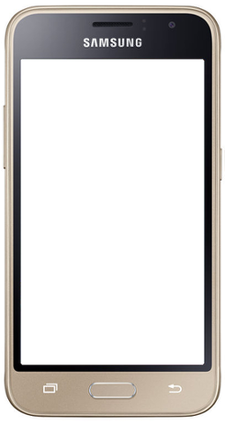
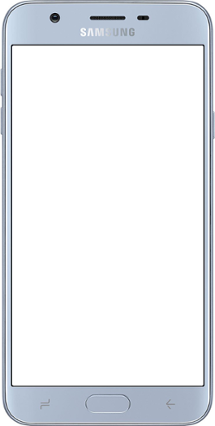
v0.8.2

diff --git a/frontend/web/css/site.css b/frontend/web/css/site.css
@@ -107,8 +107,8 @@ a.label-tag:hover, a.label-tag-na:hover {color:#555; border-color:#555;}
 .v-code .chr td {width: 3px; height: 3px; padding:0px; border: 1px solid #F2F2F2;}
 
 /*Adv*/
-.a1 {height: 120px; margin:15px 0;}
-.a2 { margin:15px 0 30px;}
+.a1 {margin:15px 0;}
+.a2 {margin:15px 0 30px;}
 
 /* ---- Slick ---- */
 /* Slider */

diff --git a/frontend/web/css/pda.css b/frontend/web/css/pda.css
@@ -104,7 +104,7 @@ a.label-tag:hover, a.label-tag-na:hover {color:#555; border-color:#555;}
 .v-code .chr td {width: 3px; height: 3px; padding:0px; border: 1px solid #F2F2F2;}
 
 /*Adv*/
-.a1m {height: 280px; margin:15px 0;}
+.a1m {margin:15px 0;}
 .a2m {margin:15px 0 25px;}
 
 /* ---- Slick ---- */

diff --git a/backend/components/ImageUploadAction.php b/backend/components/ImageUploadAction.php
@@ -56,15 +56,17 @@ class ImageUploadAction extends UploadFileAction
 		
 		if(preg_match('/.*?Meizu.*?/isu', $this->filename)) {
 			$this->makeimage($image_src, 'Meizu-tpl.png', new Box(191, 339), new Box(212, 426),  new Point(11, 44));
+		} elseif (preg_match('/.*?Xiaomi.*?/isu', $this->filename)) {
+			$this->makeimage($image_src, 'Xiaomi_tpl.png', new Box(204, 362), new Box(226, 426),  new Point(11, 30));
 		} elseif (preg_match('/.*?Samsung.*?/isu', $this->filename)) {
-			$this->makeimage($image_src, 'Samsung-tpl.png', new Box(185, 308), new Box(225, 424),  new Point(20, 59));
+			$this->makeimage($image_src, 'Samsung-tpl.png', new Box(192, 341), new Box(215, 426),  new Point(12, 45));
 		} elseif (preg_match('/.*?Microsoft.*?/isu', $this->filename)) {
 			$this->makeimage($image_src, 'Microsoft-tpl.png', new Box(188, 334), new Box(225, 425),  new Point(18, 50));
 		} elseif (preg_match('/.*?Lenovo.*?/isu', $this->filename)) {
 			$this->makeimage($image_src, 'Lenovo-tpl.png', new Box(191, 339), new Box(225, 426),  new Point(17, 37));
 		} else {
 			$image_src->thumbnail(new Box(round($this->max_height*$w_src/$h_src), $this->max_height))
-				->save(Yii::getAlias($this->pathRes.$this->filename), ['quality' => 94]);
+				->save(Yii::getAlias($this->pathRes.$this->filename), ['quality' => 95]);
 			
 			//Small thumb
 			$image_src->thumbnail(new Box(75, 75), ManipulatorInterface::THUMBNAIL_OUTBOUND)

diff --git a/frontend/themes/desktop/site/search.php b/frontend/themes/desktop/site/search.php
@@ -6,13 +6,16 @@ use yii\widgets\LinkPager;
 $this->title = 'Поиск по сайту';
 echo '<h1 class="page-title">'.$this->title.'</h1>';
 ?>
-<div id="cse-search-results"></div>
-<script type="text/javascript">
-	var googleSearchIframeName = "cse-search-results";
-	var googleSearchFormName = "cse-search-box";
-	var googleSearchFrameWidth = 800;
-	var googleSearchDomain = "www.google.ru";
-	var googleSearchPath = "/cse";
+<script>
+  (function() {
+    var cx = 'partner-pub-5001158605331260:1362917028';
+    var gcse = document.createElement('script');
+    gcse.type = 'text/javascript';
+    gcse.async = true;
+    gcse.src = 'https://cse.google.com/cse.js?cx=' + cx;
+    var s = document.getElementsByTagName('script')[0];
+    s.parentNode.insertBefore(gcse, s);
+  })();
 </script>
-<script type="text/javascript" src="http://www.google.com/afsonline/show_afs_search.js"></script>
+<gcse:searchresults-only></gcse:searchresults-only>
 

diff --git a/frontend/themes/pda/site/search.php b/frontend/themes/pda/site/search.php
@@ -6,13 +6,16 @@ use yii\widgets\LinkPager;
 $this->title = 'Поиск по сайту';
 echo '<h1 class="page-title">'.$this->title.'</h1>';
 ?>
-<div id="cse-search-results"></div>
-<script type="text/javascript">
-	var googleSearchIframeName = "cse-search-results";
-	var googleSearchFormName = "cse-search-box";
-	var googleSearchFrameWidth = 800;
-	var googleSearchDomain = "www.google.ru";
-	var googleSearchPath = "/cse";
+<script>
+  (function() {
+    var cx = 'partner-pub-5001158605331260:1362917028';
+    var gcse = document.createElement('script');
+    gcse.type = 'text/javascript';
+    gcse.async = true;
+    gcse.src = 'https://cse.google.com/cse.js?cx=' + cx;
+    var s = document.getElementsByTagName('script')[0];
+    s.parentNode.insertBefore(gcse, s);
+  })();
 </script>
-<script type="text/javascript" src="http://www.google.com/afsonline/show_afs_search.js"></script>
+<gcse:searchresults-only></gcse:searchresults-only>
 

diff --git a/frontend/themes/desktop/post/view.php b/frontend/themes/desktop/post/view.php
@@ -39,14 +39,14 @@ $this->title = $post->title;
 		<?php if ($i == 1) { ?>
 			<div class="a1">
 <script async src="//pagead2.googlesyndication.com/pagead/js/adsbygoogle.js"></script>
-<!-- infosmartphone_main -->
 <ins class="adsbygoogle"
-     style="display:block"
+     style="display:block; text-align:center;"
+     data-ad-layout="in-article"
+     data-ad-format="fluid"
      data-ad-client="ca-pub-5001158605331260"
-     data-ad-slot="9328303426"
-     data-ad-format="auto"></ins>
+     data-ad-slot="6125077423"></ins>
 <script>
-(adsbygoogle = window.adsbygoogle || []).push({});
+     (adsbygoogle = window.adsbygoogle || []).push({});
 </script>
 			</div>
 		<?php } elseif ($i == 3 or $post->cont3 == '') { ?>

diff --git a/frontend/themes/desktop/layouts/home.php b/frontend/themes/desktop/layouts/home.php
@@ -69,6 +69,7 @@ $category = isset($_GET['category']) ? $_GET['category'] : 'samsung';
 				<strong><?= Html::a('Nokia/Microsoft', Url::to(['post/index', 'category' => 'nokia-microsoft'])); ?></strong>
 				<strong><?= Html::a('Lenovo', Url::to(['post/index', 'category' => 'lenovo'])); ?></strong>
 				<strong><?= Html::a('Meizu', Url::to(['post/index', 'category' => 'meizu'])); ?></strong>
+				<strong><?= Html::a('Xiaomi', Url::to(['post/index', 'category' => 'xiaomi'])); ?></strong>
 				<button type="button" onclick="toogleBoxes('categories-box','search-box')" class="btn-menu pull-right">
 					<span class="glyphicon glyphicon-search navbar-right"></span>
 				</button>

diff --git a/frontend/themes/desktop/layouts/main.php b/frontend/themes/desktop/layouts/main.php
@@ -69,6 +69,7 @@ $category = isset($_GET['category']) ? $_GET['category'] : 'samsung';
 				<strong><?= Html::a('Nokia/Microsoft', Url::to(['post/index', 'category' => 'nokia-microsoft'])); ?></strong>
 				<strong><?= Html::a('Lenovo', Url::to(['post/index', 'category' => 'lenovo'])); ?></strong>
 				<strong><?= Html::a('Meizu', Url::to(['post/index', 'category' => 'meizu'])); ?></strong>
+				<strong><?= Html::a('Xiaomi', Url::to(['post/index', 'category' => 'xiaomi'])); ?></strong>
 				<button type="button" onclick="toogleBoxes('categories-box','search-box')" class="btn-menu pull-right">
 					<span class="glyphicon glyphicon-search navbar-right"></span>
 				</button>

diff --git a/frontend/themes/pda/layouts/home.php b/frontend/themes/pda/layouts/home.php
@@ -69,6 +69,7 @@ $category = isset($_GET['category']) ? $_GET['category'] : 'samsung';
 				<strong><?= Html::a('Nokia/Microsoft', Url::to(['post/index', 'category' => 'nokia-microsoft'])); ?></strong>
 				<strong><?= Html::a('Lenovo', Url::to(['post/index', 'category' => 'lenovo'])); ?></strong>
 				<strong><?= Html::a('Meizu', Url::to(['post/index', 'category' => 'meizu'])); ?></strong>
+				<strong><?= Html::a('Xiaomi', Url::to(['post/index', 'category' => 'xiaomi'])); ?></strong>
 				<button type="button" onclick="toogleBoxes('categories-box','search-box')" class="btn-menu pull-right">
 					<span class="glyphicon glyphicon-search navbar-right"></span>
 				</button>

diff --git a/frontend/themes/pda/layouts/main.php b/frontend/themes/pda/layouts/main.php
@@ -69,6 +69,7 @@ $category = isset($_GET['category']) ? $_GET['category'] : 'samsung';
 				<strong><?= Html::a('Nokia/Microsoft', Url::to(['post/index', 'category' => 'nokia-microsoft'])); ?></strong>
 				<strong><?= Html::a('Lenovo', Url::to(['post/index', 'category' => 'lenovo'])); ?></strong>
 				<strong><?= Html::a('Meizu', Url::to(['post/index', 'category' => 'meizu'])); ?></strong>
+				<strong><?= Html::a('Xiaomi', Url::to(['post/index', 'category' => 'xiaomi'])); ?></strong>
 				<button type="button" onclick="toogleBoxes('categories-box','search-box')" class="btn-menu pull-right">
 					<span class="glyphicon glyphicon-search navbar-right"></span>
 				</button>

diff --git a/frontend/themes/desktop/layouts/blog.php b/frontend/themes/desktop/layouts/blog.php
@@ -69,6 +69,7 @@ AppAsset::register($this);
 				<strong><?= Html::a('Nokia/Microsoft', Url::to(['post/index', 'category' => 'nokia-microsoft'])); ?></strong>
 				<strong><?= Html::a('Lenovo', Url::to(['post/index', 'category' => 'lenovo'])); ?></strong>
 				<strong><?= Html::a('Meizu', Url::to(['post/index', 'category' => 'meizu'])); ?></strong>
+				<strong><?= Html::a('Xiaomi', Url::to(['post/index', 'category' => 'xiaomi'])); ?></strong>
 				<button type="button" onclick="toogleBoxes('categories-box','search-box')" class="btn-menu pull-right">
 					<span class="glyphicon glyphicon-search navbar-right"></span>
 				</button>

diff --git a/frontend/themes/pda/layouts/blog.php b/frontend/themes/pda/layouts/blog.php
@@ -69,6 +69,7 @@ AppAsset::register($this);
 				<strong><?= Html::a('Nokia/Microsoft', Url::to(['post/index', 'category' => 'nokia-microsoft'])); ?></strong>
 				<strong><?= Html::a('Lenovo', Url::to(['post/index', 'category' => 'lenovo'])); ?></strong>
 				<strong><?= Html::a('Meizu', Url::to(['post/index', 'category' => 'meizu'])); ?></strong>
+				<strong><?= Html::a('Xiaomi', Url::to(['post/index', 'category' => 'xiaomi'])); ?></strong>
 				<button type="button" onclick="toogleBoxes('categories-box','search-box')" class="btn-menu pull-right">
 					<span class="glyphicon glyphicon-search navbar-right"></span>
 				</button>
